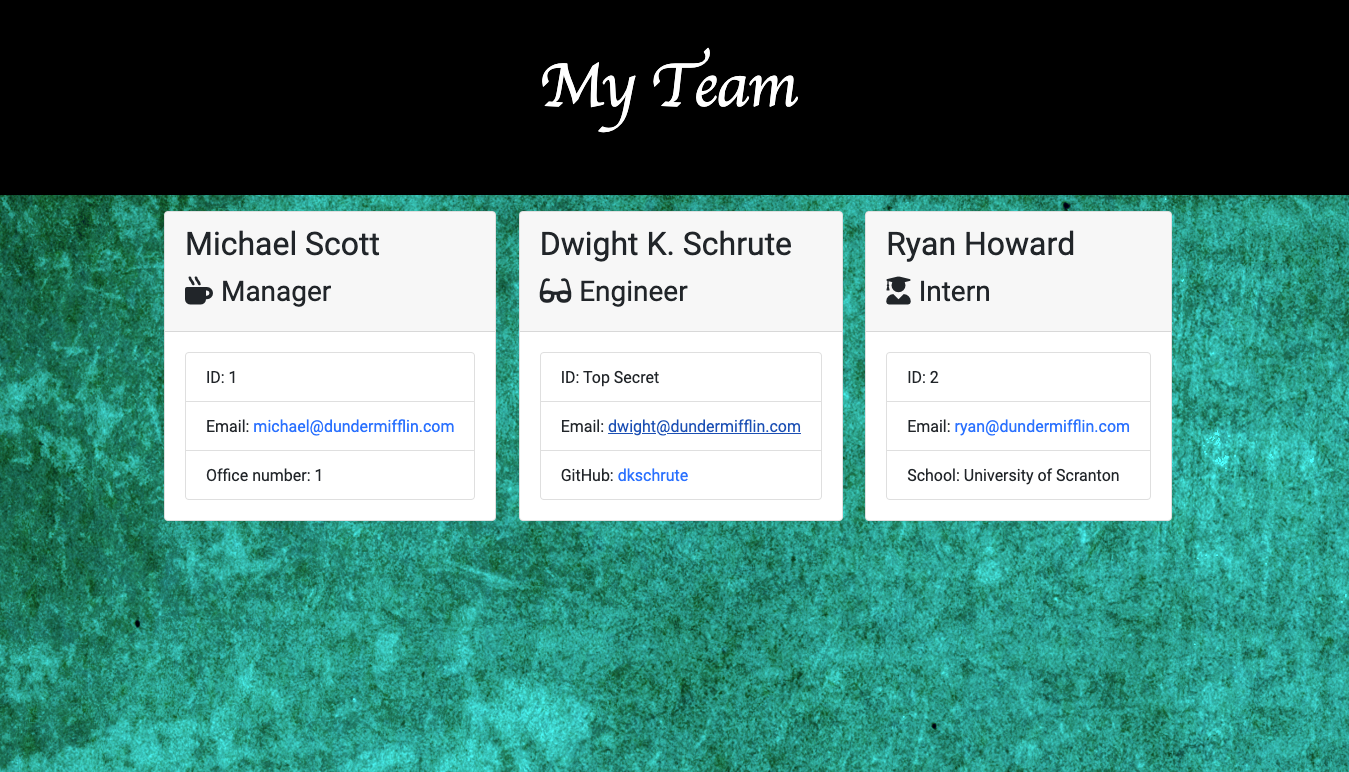
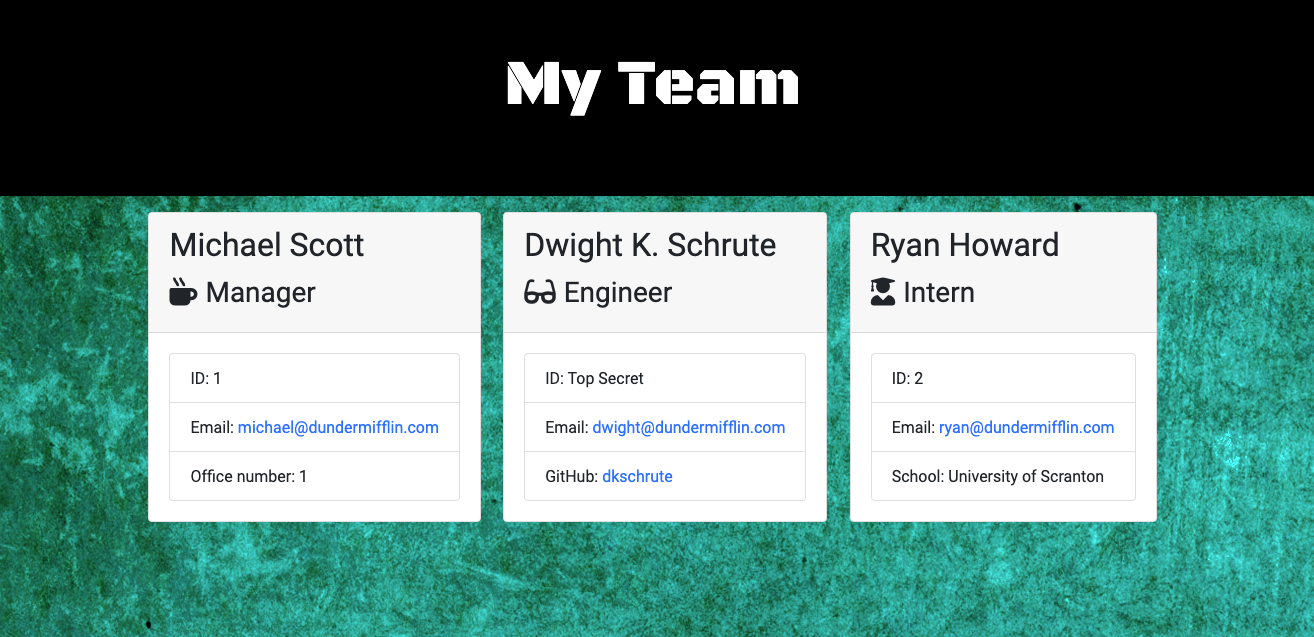
font styling adjusted

diff --git a/Develop/output/team.html b/Develop/output/team.html
@@ -1,71 +1,105 @@
 <!DOCTYPE html>
 <html lang="en">
-
-<head>
+  <head>
     <meta charset="UTF-8" />
     <meta name="viewport" content="width=device-width, initial-scale=1.0" />
     <meta http-equiv="X-UA-Compatible" content="ie=edge" />
     <title>My Team</title>
-    <link rel="stylesheet" href="https://stackpath.bootstrapcdn.com/bootstrap/4.3.1/css/bootstrap.min.css"
-        integrity="sha384-ggOyR0iXCbMQv3Xipma34MD+dH/1fQ784/j6cY/iJTQUOhcWr7x9JvoRxT2MZw1T" crossorigin="anonymous">
-    <link rel="stylesheet" href="style.css">
+    <link
+      href="https://fonts.googleapis.com/css2?family=Black+Ops+One&family=Roboto&display=swap"
+      rel="stylesheet"
+    />
+    <link
+      rel="stylesheet"
+      href="https://stackpath.bootstrapcdn.com/bootstrap/4.3.1/css/bootstrap.min.css"
+      integrity="sha384-ggOyR0iXCbMQv3Xipma34MD+dH/1fQ784/j6cY/iJTQUOhcWr7x9JvoRxT2MZw1T"
+      crossorigin="anonymous"
+    />
+    <link rel="stylesheet" href="style.css" />
     <script src="https://kit.fontawesome.com/c502137733.js"></script>
-</head>
+  </head>
 
-<body>
+  <body>
     <div class="container-fluid">
-        <div class="row">
-            <div class="col-12 jumbotron mb-3 team-heading">
-                <h1 class="text-center">My Team</h1>
-            </div>
+      <div class="row">
+        <div class="col-12 jumbotron mb-3 team-heading">
+          <h1 class="text-center">My Team</h1>
         </div>
+      </div>
     </div>
     <div class="container">
-        <div class="row">
-            <div class="team-area col-12 d-flex justify-content-center">
-                <div class="card employee-card">
-    <div class="card-header">
-        <h2 class="card-title">Michael Scott</h2>
-        <h3 class="card-title"><i class="fas fa-mug-hot mr-2"></i>Manager</h3>
-    </div>
-    <div class="card-body">
-        <ul class="list-group">
-            <li class="list-group-item">ID: 1</li>
-            <li class="list-group-item">Email: <a href="mailto:michael@dundermifflin.com">michael@dundermifflin.com</a></li>
-            <li class="list-group-item">Office number: 1</li>
-        </ul>
-    </div>
-</div>
-<div class="card employee-card">
-    <div class="card-header">
-        <h2 class="card-title">Dwight K. Schrute</h2>
-        <h3 class="card-title"><i class="fas fa-glasses mr-2"></i>Engineer</h3>
-    </div>
-    <div class="card-body">
-        <ul class="list-group">
-            <li class="list-group-item">ID: Top Secret</li>
-            <li class="list-group-item">Email: <a href="mailto:dwight@dundermifflin.com">dwight@dundermifflin.com</a></li>
-            <li class="list-group-item">GitHub: <a href="https://github.com/dkschrute" target="_blank" rel="noopener noreferrer">dkschrute</a></li>
-        </ul>
-    </div>
-</div>
-<div class="card employee-card">
-    <div class="card-header">
-        <h2 class="card-title">Ryan Howard</h2>
-        <h3 class="card-title"><i class="fas fa-user-graduate mr-2"></i>Intern</h3>
-    </div>
-    <div class="card-body">
-        <ul class="list-group">
-            <li class="list-group-item">ID: 2</li>
-            <li class="list-group-item">Email: <a href="mailto:ryan@dundermifflin.com">ryan@dundermifflin.com</a></li>
-            <li class="list-group-item">School: University of Scranton</li>
-        </ul>
-    </div>
-</div>
-
+      <div class="row">
+        <div class="team-area col-12 d-flex justify-content-center">
+          <div class="card employee-card">
+            <div class="card-header">
+              <h2 class="card-title">Michael Scott</h2>
+              <h3 class="card-title">
+                <i class="fas fa-mug-hot mr-2"></i>Manager
+              </h3>
             </div>
+            <div class="card-body">
+              <ul class="list-group">
+                <li class="list-group-item">ID: 1</li>
+                <li class="list-group-item">
+                  Email:
+                  <a href="mailto:michael@dundermifflin.com"
+                    >michael@dundermifflin.com</a
+                  >
+                </li>
+                <li class="list-group-item">Office number: 1</li>
+              </ul>
+            </div>
+          </div>
+          <div class="card employee-card">
+            <div class="card-header">
+              <h2 class="card-title">Dwight K. Schrute</h2>
+              <h3 class="card-title">
+                <i class="fas fa-glasses mr-2"></i>Engineer
+              </h3>
+            </div>
+            <div class="card-body">
+              <ul class="list-group">
+                <li class="list-group-item">ID: Top Secret</li>
+                <li class="list-group-item">
+                  Email:
+                  <a href="mailto:dwight@dundermifflin.com"
+                    >dwight@dundermifflin.com</a
+                  >
+                </li>
+                <li class="list-group-item">
+                  GitHub:
+                  <a
+                    href="https://github.com/dkschrute"
+                    target="_blank"
+                    rel="noopener noreferrer"
+                    >dkschrute</a
+                  >
+                </li>
+              </ul>
+            </div>
+          </div>
+          <div class="card employee-card">
+            <div class="card-header">
+              <h2 class="card-title">Ryan Howard</h2>
+              <h3 class="card-title">
+                <i class="fas fa-user-graduate mr-2"></i>Intern
+              </h3>
+            </div>
+            <div class="card-body">
+              <ul class="list-group">
+                <li class="list-group-item">ID: 2</li>
+                <li class="list-group-item">
+                  Email:
+                  <a href="mailto:ryan@dundermifflin.com"
+                    >ryan@dundermifflin.com</a
+                  >
+                </li>
+                <li class="list-group-item">School: University of Scranton</li>
+              </ul>
+            </div>
+          </div>
         </div>
+      </div>
     </div>
-</body>
-
+  </body>
 </html>
